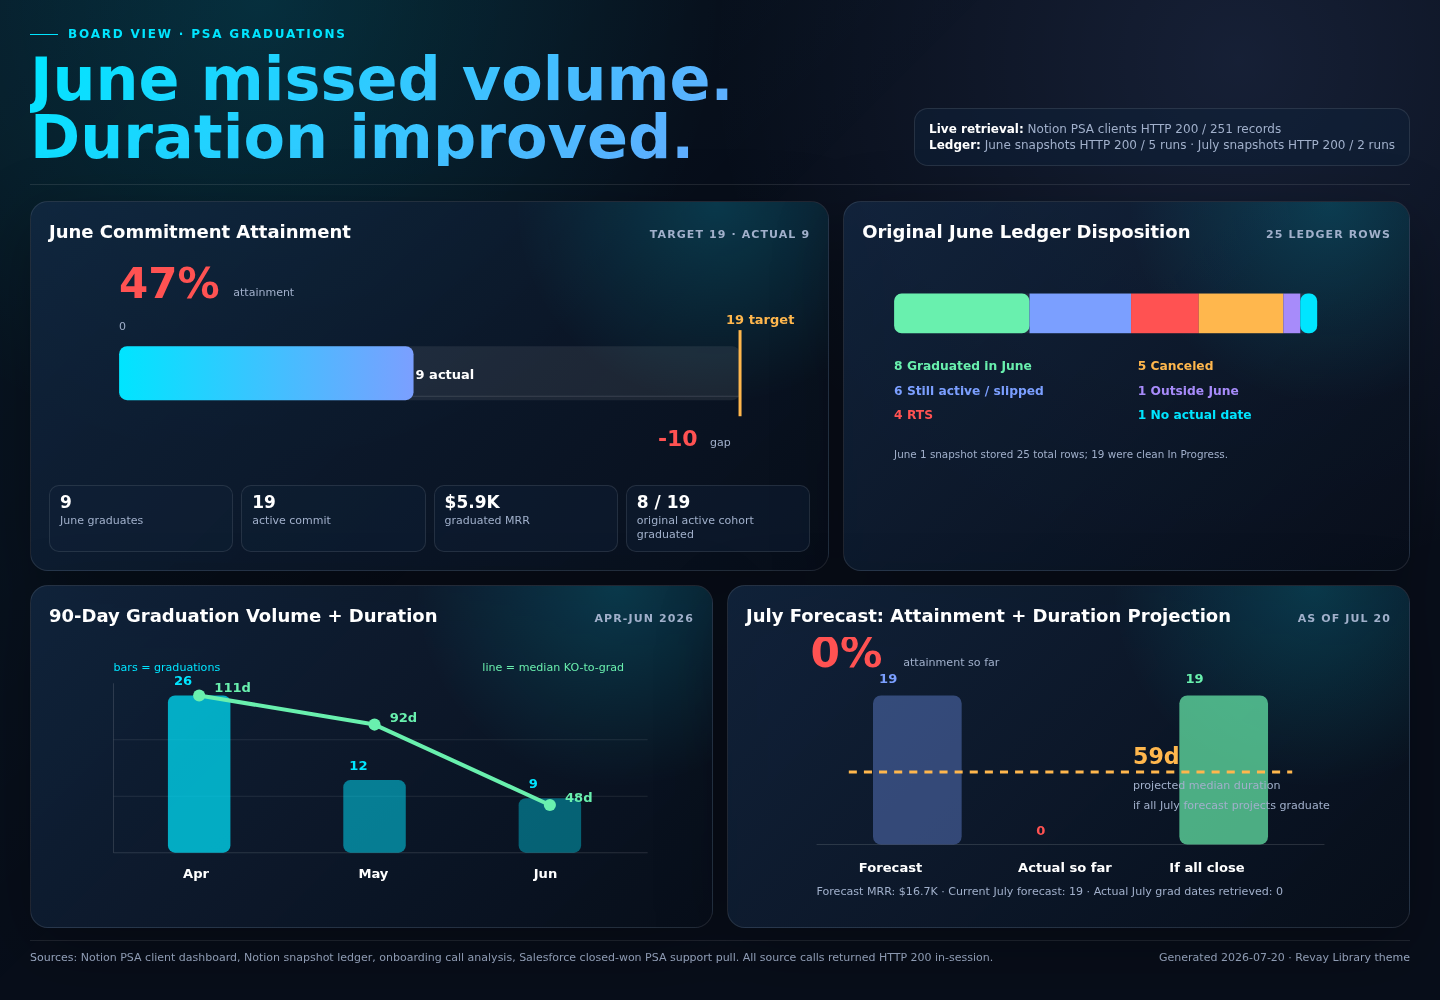
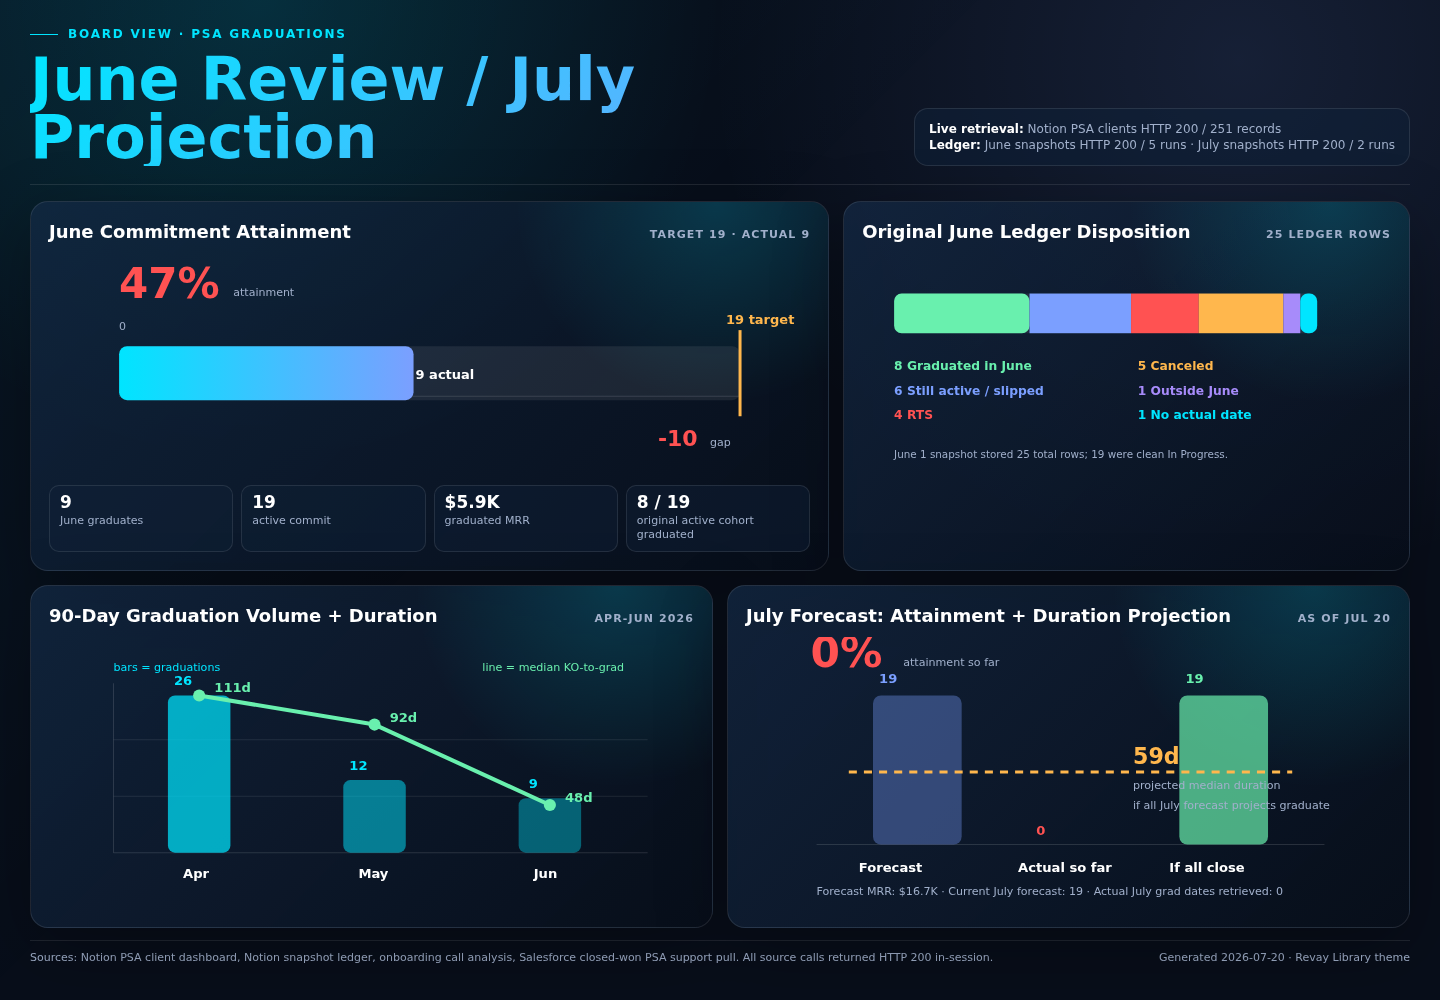
Update PSA board one-pager title

Changed region(s): [[0.0312, 0.062, 0.5, 0.186]]

diff --git a/psa-june-graduation-board-onepager-2026-07-20.html b/psa-june-graduation-board-onepager-2026-07-20.html
@@ -199,7 +199,7 @@
     <header>
       <div>
         <div class="eyebrow">Board view · PSA graduations</div>
-        <h1>June missed volume. Duration improved.</h1>
+        <h1>June Review / July Projection</h1>
       </div>
       <div class="stamp">
         <b>Live retrieval:</b> Notion PSA clients HTTP 200 / 251 records<br>
